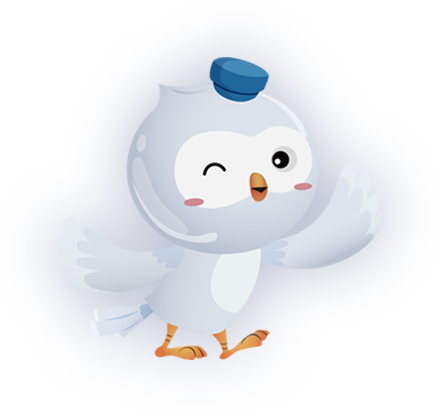
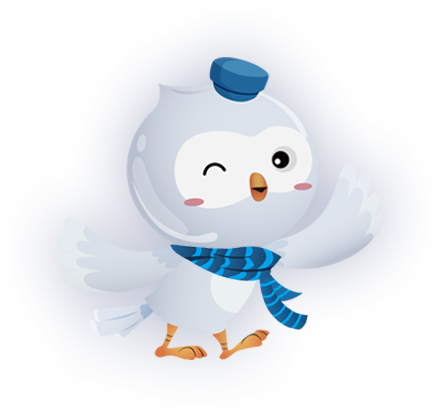
鴿子加圍巾、內頁球加底紋

Changed region(s): [[0.385, 0.5598, 0.7107, 0.8086]]

diff --git a/mp.htm b/mp.htm
@@ -110,9 +110,10 @@
                             <section class="setFlex">
                                 <b>適用對象</b>
                                 <ol>
-                                    <li>有戶籍國民護照換發（限同舊照）</li>
-                                    <li>已逾期且未曾遺失過護照</li>
-                                    <li>申請人須在境內</li>
+                                    <li>有戶籍國民護照換發（護照資料頁記載事項未變更）</li>
+                                    <li>現持護照已逾期且於10年內無遺失紀錄</li>
+                                    <li>申請人須居住在我國境內</li>
+                                    <li>換發護照時不變更個人資料記載事項（即同舊照）</li>
                                 </ol> 
                             </section>
                             <ul>
@@ -146,7 +147,7 @@
                                     <b>03</b>
                                     <h4>信用卡</h4>
                                     <ul>
-                                        <li>信用卡繳費限持卡本人刷卡</li>
+                                        <li>信用卡繳費限持卡<b class="R">本人</b>刷卡</li>
                                         <li>可持以下各發卡機構的信用卡繳費，請詳閱<a>公務機關暨醫療院所信用卡繳費平臺</a></li>
                                     </ul>
                                     <!-- <p>信用卡繳費限持卡本人刷卡</p> -->

diff --git a/sass/page/_template.scss b/sass/page/_template.scss
@@ -158,6 +158,14 @@ body {
         //     url(../images/bg-blur-ball.png) 50% 0 no-repeat,
         //     #e2e8ee;
         background-attachment: fixed;
+        .bean_M{
+            // 左邊
+            background: url(../images/deco-been-1-inner.png) no-repeat;
+        }
+        .bean_S{
+            // 右邊小豆
+            background: url(../images/deco-been-2-inner.png) no-repeat;
+        }
     }
 }
 
@@ -1035,7 +1043,7 @@ ol.list_info{
                 border-radius: 24px;
                 // padding-bottom: 14em;
                 position: relative;
-                b{
+                > b{
                     color: $primaryColor;
                     font-family: system-ui;
                     font-size: 4.5em;
@@ -3411,6 +3419,15 @@ li a{
                         color: #fff;
                     }
                 }
+                &.passed{
+                    color:#aaabcb; 
+                    &:before{
+                        background: #aaabcb;
+                        border-color: #aaabcb;
+                        color: #fff;
+                    }
+                }
+
             }
         }
 

diff --git a/css/boca.css b/css/boca.css
@@ -8601,6 +8601,14 @@ body.Page {
   background: url(../images/bg-blur-ball.png) 50% 0 no-repeat, #e2e8ee;
   background-attachment: fixed;
 }
+html.Page .bean_M,
+body.Page .bean_M {
+  background: url(../images/deco-been-1-inner.png) no-repeat;
+}
+html.Page .bean_S,
+body.Page .bean_S {
+  background: url(../images/deco-been-2-inner.png) no-repeat;
+}
 
 header .container,
 footer .container {
@@ -9283,7 +9291,7 @@ ol.list_info li {
   border-radius: 24px;
   position: relative;
 }
-.Login .prepareInfo .setFlex .col b {
+.Login .prepareInfo .setFlex .col > b {
   color: #4e4fa0;
   font-family: system-ui;
   font-size: 4.5em;
@@ -11855,6 +11863,14 @@ li a:focus-visible {
 }
 .innerpage .left_block ol.steps li.now:before {
   background: #4e4fa0;
+  color: #fff;
+}
+.innerpage .left_block ol.steps li.passed {
+  color: #aaabcb;
+}
+.innerpage .left_block ol.steps li.passed:before {
+  background: #aaabcb;
+  border-color: #aaabcb;
   color: #fff;
 }
 .innerpage .left_block.hidden + .center_block {

diff --git a/sp2.htm b/sp2.htm
@@ -91,9 +91,9 @@
                 <div class="left_block stickySidebar">
                     <div class="leftblock_list">
                         <ol class="steps">
-                            <li class="now">個資聲明及驗證電子郵件</li>
-                            <li>連線至MyData平臺</li>
-                            <li>資料填寫</li>
+                            <li class="passed">個資聲明及驗證電子郵件</li>
+                            <li class="passed">連線至MyData平臺</li>
+                            <li class="now">資料填寫</li>
                             <li>上傳照片</li>
                             <li>資料預覽及電子簽章</li>
                             <li>線上繳費</li>
